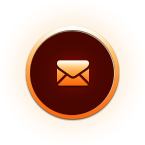
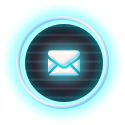
finished

diff --git a/src/styles/includes/header-social.less b/src/styles/includes/header-social.less
@@ -1,42 +1,62 @@
 @import '../vars/mixins';
 
 .header-social {
-    width: 210px;
+    width: 221px;
     display: flex;
     justify-content: space-between;
 
+    &__wrap {
+        position: relative;
+        height: 52px;
+        width: 62px;
+    }
+
     &__icon {
-        height: 49px;
-        width: 49px;
+        position: absolute;
+        top: 50%;
+        left: 50%;
+        transform: translate(-50%, -50%);
+        height: 140px;
+        width: 200px;
         background-position: center;
         background-repeat: no-repeat;
 
         &--fb {
-            background-image: url(../img/fb-top1.png);
-            transform: translate(-1px, 0);
+            background-image: url(../img/fb-top.png);
 
-            .header-social__link:hover & {
-                background-image: url(../img/fb-top.png);
-                transform: translate(-1px, 0);
+            .header-social__link:hover + & {
+                background-image: url(../img/fb-top1.png);
+            }
+
+            .header-social__link:active + & {
+                background-image: url(../img/fb-top2.png);
+                transform: translate(-50%, calc(-50% + 28px));
             }
         }
 
         &--vk {
-            background-image: url(../img/vk-top1.png);
-            transform: translate(-1px, 1px);
+            background-image: url(../img/vk-top.png);
 
-            .header-social__link:hover & {
-                background-image: url(../img/vk-top.png);
-                transform: translate(-1px, 0);
+            .header-social__link:hover + & {
+                background-image: url(../img/vk-top1.png);
+            }
+
+            .header-social__link:active + & {
+                background-image: url(../img/vk-top2.png);
+                transform: translate(-50%, calc(-50% + 27px));
             }
         }
 
         &--mail {
-            background-image: url(../img/mail-top1.png);
+            background-image: url(../img/mail-top.png);
 
-            .header-social__link:hover & {
-                background-image: url(../img/mail-top.png);
-                transform: translate(1px, 0);
+            .header-social__link:hover + & {
+                background-image: url(../img/mail-top1.png);
+            }
+
+            .header-social__link:active + & {
+                background-image: url(../img/mail-top2.png);
+                transform: translate(-50%, calc(-50% + 27px));
             }
         }
     }
@@ -45,14 +65,9 @@
         .no-tap-highlight();
         cursor: pointer;
         display: block;
-        background-repeat: no-repeat;
-        height: 49px;
-        width: 49px;
-        background-image: url(../img/bg-social-top.png);
-
-        &:active {
-            background-image: url(../img/bg-social-top-hover.png);
-        }
-
+        height: 100%;
+        width: 100%;
+        position: relative;
+        z-index: 1;
     }
 }

diff --git a/src/styles/includes/footer-social.less b/src/styles/includes/footer-social.less
@@ -16,8 +16,8 @@
     &__icon {
         display: block;
         background-repeat: no-repeat;
-        height: 145px;
-        width: 145px;
+        height: 125px;
+        width: 125px;
         position: relative;
     }
 
@@ -29,27 +29,27 @@
         bottom: 0;
 
         .footer-social__icon--fb & {
-            background-image: url(../img/facebook-logo.png);
+            background: url(../img/facebook-logo.png) no-repeat center top;
         }
 
         .footer-social__icon--fb.hovered & {
-            background-image: url(../img/facebook-logo1.png);
+            background: url(../img/facebook-logo1.png) no-repeat center top;
         }
 
         .footer-social__icon--vk & {
-            background-image: url(../img/vk.png);
+            background: url(../img/vk.png) no-repeat center top;
         }
 
         .footer-social__icon--vk.hovered & {
-            background-image: url(../img/vk1.png);
+            background: url(../img/vk1.png) no-repeat center top;
         }
 
         .footer-social__icon--mail & {
-            background-image: url(../img/mail.png);
+            background: url(../img/mail.png) no-repeat center top;
         }
 
         .footer-social__icon--mail.hovered & {
-            background-image: url(../img/mail1.png);
+            background: url(../img/mail1.png) no-repeat center top;
         }
     }
 
@@ -58,7 +58,7 @@
         display: block;
         width: 95px;
         height: 95px;
-        margin: 26px 0 0 26px;
+        margin: 15px 0 0 15px;
         position: relative;
         .no-tap-highlight();
     }

diff --git a/src/styles/includes/header-nav.less b/src/styles/includes/header-nav.less
@@ -11,26 +11,43 @@
         align-items: center;
         font-size: 14px;
         font-weight: 700;
-        width: 103px;
-        height: 57px;
+        height: 100%;
+        width: 112px;
+        box-sizing: border-box;
+        border-left: 2px solid @header-hav-border-color;
         color: @nav-text-color;
-        background-image: url(../img/btn-top.png);
-        background-position: top;
-        background-repeat: no-repeat;
-        margin-left: 14px;
         text-decoration: none;
         text-align: center;
         transition: color 0.1s ease;
         .no-tap-highlight();
         outline: none;
+        position: relative;
+
+        &:last-child {
+            border-right: 2px solid @header-hav-border-color;
+        }
 
         &:hover {
             color: @nav-hover-text-color;
         }
 
+        &:after {
+            display: none;
+            position: absolute;
+            content: ' ';
+            background: url(../img/header-nav-border.png) no-repeat left top;
+            width: 146px;
+            height: 38px;
+            bottom: -15px;
+            left: -18px;
+            z-index: 1;
+        }
+
         &_active,
         &:active {
-            background-image: url(../img/btn-active-top.png);
+            &:after {
+                display: block;
+            }
         }
 
         &_active {

diff --git a/src/styles/includes/footer.less b/src/styles/includes/footer.less
@@ -14,7 +14,7 @@
         width: 1920px;
         left: 50%;
         transform: translateX(-50%);
-        background-color: #250503;
+        background-color: @footer-background-color;
     }
 
     &__content {
@@ -29,26 +29,11 @@
 
     &__panel {
         width: 1920px;
-        height: 70px;
-        background: url('../img/footer-panel.png') no-repeat center bottom;
         position: absolute;
         left: 0;
-
-        &_top {
-            top: -10px;
-        }
-
-        &_bottom {
-            bottom: -11px;
-        }
-    }
-
-    &__divider {
-        background: url('../img/divider.png') no-repeat center bottom;
-        width: 1118px;
-        height: 34px;
-        margin: auto auto 0;
-        transform: translateX(5px);
+        bottom: 0;
+        background: url('../img/footer-panel.png') no-repeat center bottom;
+        height: 62px;
     }
 
     &__message {
@@ -58,10 +43,10 @@
         font-size: 24px;
         color: @footer-message-color;
         line-height: 28px;
-        margin-top: 6px;
+        margin-top: auto;
     }
 
     &__social {
-        margin: 42px auto 102px;
+        margin: 30px auto 119px;
     }
 }

diff --git a/src/styles/includes/index-main.less b/src/styles/includes/index-main.less
@@ -18,10 +18,10 @@
     &__startscreen {
         background: url(../img/startscreen.png) no-repeat left top;
         position: absolute;
-        top: -91px;
-        left: -131px;
-        width: 1331px;
-        height: 789px;
+        top: -31px;
+        left: 2px;
+        width: 1198px;
+        height: 725px;
     }
 
     &__mobile {
@@ -29,20 +29,20 @@
         height: 450px;
         background: url(../img/mobile.png) no-repeat center top;
         position: absolute;
-        top: 405px;
+        top: 399px;
         left: 50%;
-        transform: translateX(calc(-50% + 8px));
+        transform: translateX(calc(-50% + 9px));
         z-index: 1;
     }
 
     &__play {
         position: absolute;
         z-index: 2;
-        width: 462px;
-        height: 98px;
+        width: 457px;
+        height: 109px;
         background: url(../img/play.png) no-repeat;
-        bottom: -44px;
-        left: 215px;
+        bottom: -49px;
+        left: 230px;
         cursor: pointer;
         .no-tap-highlight();
     }

diff --git a/src/styles/includes/header.less b/src/styles/includes/header.less
@@ -2,28 +2,26 @@
 
 .header {
     background: url(../img/bg-top.png) no-repeat center top;
-    height: 96px;
+    height: 97px;
     min-width: @content-width-lg;
     position: relative;
     z-index: 1;
 
     &__content {
         width: @content-width-lg;
-        height: 100%;
+        height: 82px;
         margin: 0 auto;
         display: flex;
         position: relative;
     }
 
     &__social {
-        margin-top: 21px;
-        margin-left: 35px;
+        margin-top: 15px;
+        margin-left: 31px;
     }
 
     &__nav {
         margin-left: auto;
-        margin-right: 5px;
-        margin-top: 14px;
     }
 
     &__logo {
@@ -34,7 +32,7 @@
         background-repeat: no-repeat;
         position: absolute;
         left: 50%;
-        transform: translateX(calc(-50% - 1px));
+        transform: translateX(calc(-50% + 7px));
         z-index: 2;
     }
 }

diff --git a/src/styles/includes/privacy-policy-main.less b/src/styles/includes/privacy-policy-main.less
@@ -3,15 +3,15 @@
 .privacy-policy-main {
     width: 1200px;
     position: relative;
-    height: 202px;
+    height: 161px;
     margin: 0 auto;
 
     &__background {
         position: absolute;
-        top: -91px;
-        left: -360px;
-        width: 1560px;
-        height: 300px;
+        top: -97px;
+        left: -361px;
+        width: 1561px;
+        height: 258px;
         position: absolute;
         background: url(../img/startscreenprivacy.png) no-repeat left top;
         z-index: 0;
@@ -22,6 +22,6 @@
         color: @privacy-header-color;
         font-size: 48px;
         text-align: center;
-        margin-top: 75px;
+        margin-top: 55px;
     }
 }

diff --git a/src/styles/vars/colors.less b/src/styles/vars/colors.less
@@ -1,7 +1,8 @@
-@body-background-color: #060000;
-@nav-text-color: #fdc689;
-@nav-hover-text-color: lighten(@nav-text-color, 10%);
-@footer-background-color: #250503;
-@footer-message-color: #ffb26f;
+@body-background-color: #0f0d0c;
+@nav-text-color: #9ba6b2;
+@nav-hover-text-color: #e4e9ee;
+@header-hav-border-color: #0d0e13;
+@footer-background-color: #191722;
+@footer-message-color: #ebebeb;
 @privacy-header-color: #e4e9ee;
-@privacy-text-color: #a19279;
+@privacy-text-color: #9ba6b2;

diff --git a/src/styles/includes/footer-privacy.less b/src/styles/includes/footer-privacy.less
@@ -4,7 +4,7 @@
     height: auto;
 
     &__text {
-        margin: 60px 0 150px;
+        margin: 20px 0 150px;
         position: relative;
         z-index: 1;
         font-size: 16px;
